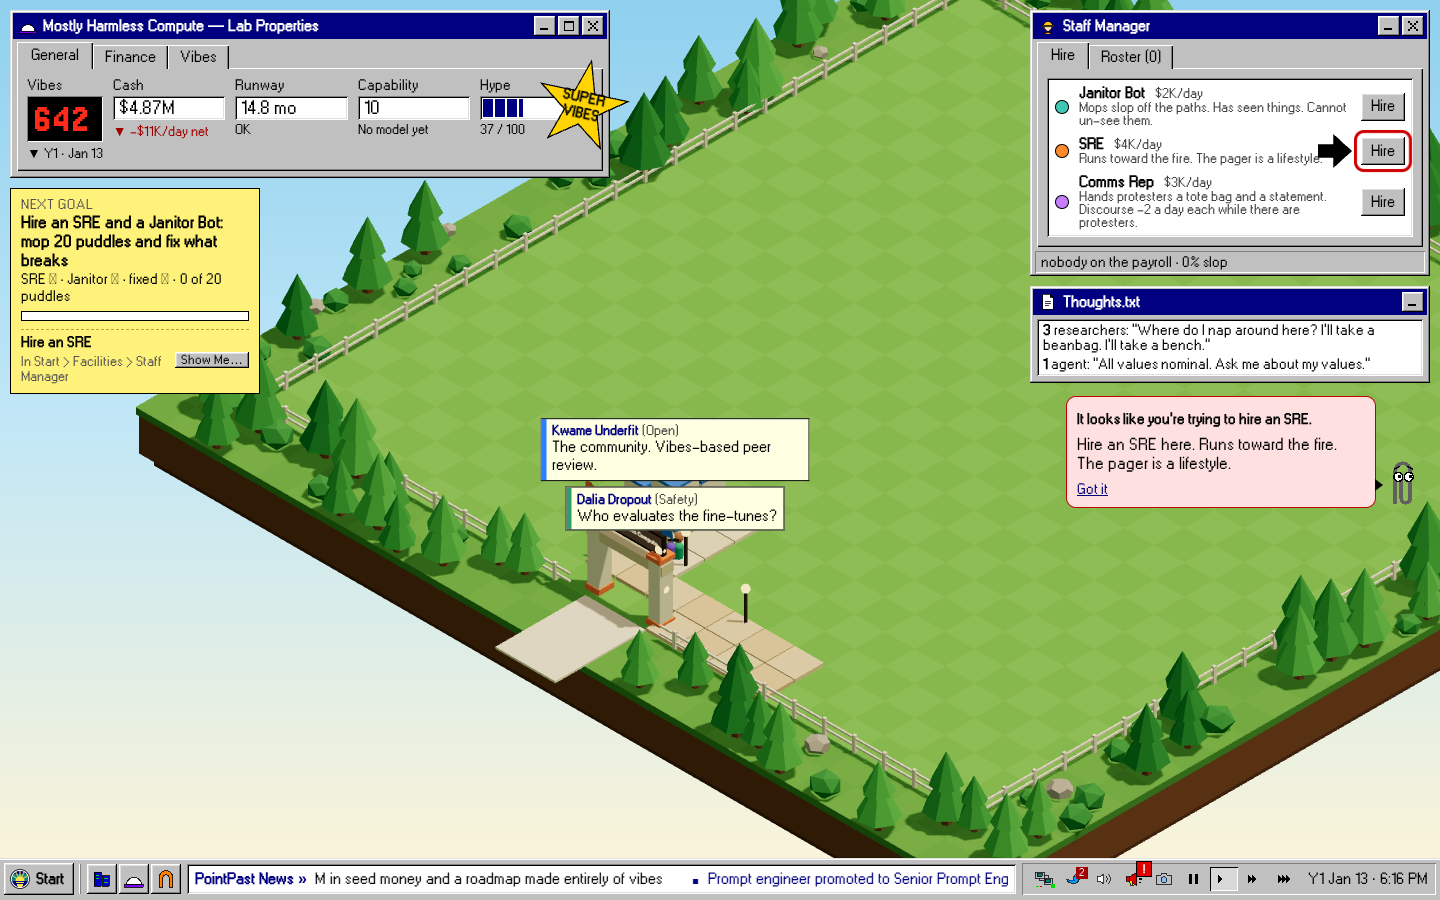
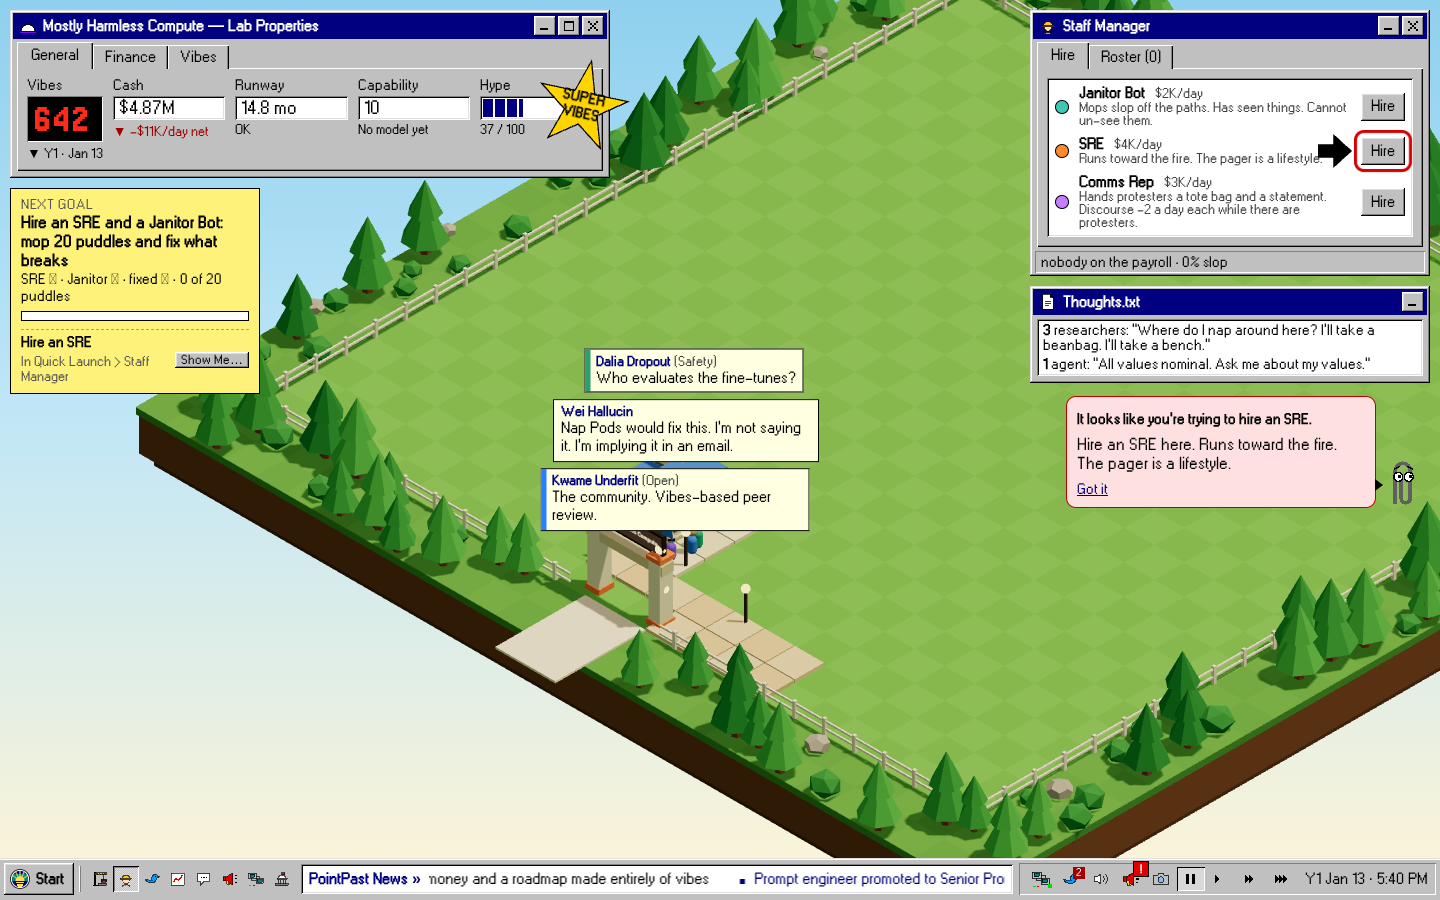
FLT-93: the arrow keeps off controls inside FLT-94's anchored windows; Hire re-shot through Quick Launch
FLT-94 marks whole windows as anchors (win:staff), so "anything with data-anchor" under the arrow meant everywhere in
the window was covered and the arrow fell back onto the Janitor Bot's Hire button. Covers now counts real controls only,
and the arrow is placed on every look, not once.

diff --git a/src/ui/hud/CoachLayer.tsx b/src/ui/hud/CoachLayer.tsx
@@ -64,9 +64,12 @@ interface Found {
   rect: Rect | null;
   panel: Rect | null;
   avoid: Rect[];
+  /** [Show me]'s arrow. Placed on every look, not once: a window's rows can land under it after the target is lit. */
+  arrow: Arrow | null;
 }
 
-const NONE: Found = { rect: null, panel: null, avoid: [] };
+const NONE: Found = { rect: null, panel: null, avoid: [], arrow: null };
+const sameArrow = (a: Arrow | null, b: Arrow | null) => (a === null || b === null ? a === b : a.point === b.point && sameRect(a.at, b.at));
 
 /** What a DOM change looks like to the coach (a `MutationRecord`, cut down so it is tested without a DOM). */
 export interface WindowChange {
@@ -112,8 +115,9 @@ function useSpotlight(target: string | null, guide = false): Found {
       const rect = measure();
       const panel = rect ? measurePanel(target, guide) : null;
       const avoid = measureAvoid();
-      if (sameRect(rect, last.rect) && sameRect(panel, last.panel) && sameRects(avoid, last.avoid)) return;
-      last = { rect, panel, avoid };
+      const arrow = guide && rect ? arrowFor(rect) : null;
+      if (sameRect(rect, last.rect) && sameRect(panel, last.panel) && sameRects(avoid, last.avoid) && sameArrow(arrow, last.arrow)) return;
+      last = { rect, panel, avoid, arrow };
       // A window just opened: move the balloon in this frame, not the next one.
       if (now) flushSync(() => setFound(last));
       else setFound(last);
@@ -230,10 +234,9 @@ export function CoachLayer({ vm, actions }: { vm: HudVM; actions: HudActions }) 
   const { Coach } = useSkin().slots;
   const coach = coachWaits(vm) ? null : vm.coach;
   const guide = coach?.guide === true;
-  const { rect, panel, avoid } = useSpotlight(coach ? (guide ? coach.target : spotlightTarget(vm)) : null, guide);
+  const { rect, panel, avoid, arrow } = useSpotlight(coach ? (guide ? coach.target : spotlightTarget(vm)) : null, guide);
   useGuideEnds(guide ? coach!.target : null, actions.endShowMe);
   if (!coach) return null;
-  const arrow = guide && rect ? arrowFor(rect) : null;
   return (
     <>
       {rect && <Spotlight rect={rect} dim={coach.dim === true} arrow={arrow} />}

diff --git a/src/ui/hud/showMe.ts b/src/ui/hud/showMe.ts
@@ -118,7 +118,12 @@ export function arrowPlace(hole: Rect, size: number, view: { w: number; h: numbe
   return { point, at: at[point] };
 }
 
-/** The page's answer for `covers`: a button, link or anchor under the arrow that is not the lit thing itself. */
+/**
+ * The page's answer for `covers`: a control under the arrow (a button, link, field, tab or menu item) that is not the lit thing
+ * itself. Not any `data-anchor`: a whole window is one (`win:staff`), and inside it everywhere would look covered.
+ */
+const CONTROL = "button, a, input, select, textarea, [role=button], [role=tab], [role=menuitem]";
+
 export function domCovers(hole: Rect): (at: Rect) => boolean {
   return (at) => {
     if (typeof document === "undefined") return false;
@@ -128,7 +133,7 @@ export function domCovers(hole: Rect): (at: Rect) => boolean {
       [at.x + at.w - 4, at.y + at.h - 4],
     ] as const;
     return probes.some(([x, y]) => {
-      const hit = document.elementFromPoint(x, y)?.closest("button, a, input, select, [data-anchor]");
+      const hit = document.elementFromPoint(x, y)?.closest(CONTROL);
       if (!hit) return false;
       const b = hit.getBoundingClientRect();
       const mx = b.left + b.width / 2;

diff --git a/docs/img/flt-93/report.md b/docs/img/flt-93/report.md
@@ -1,12 +1,7 @@
 
-> **⚠ 1 blank or failed output(s), do not use these as evidence:**
-> - flt93-card.png: blank composite: panel 3 is 26% one colour, 14 colours
-
-| Scene | Before (`main` @ d17e9a7) | After (`flt-93-onboarding` @ 561efab+) |
+| Scene | Before (`main` @ d17e9a7) | After (`flt-93-onboarding` @ bb2dd75+) |
 |---|---|---|
-| **flt93-card**<br>⚠ compare: blank composite: panel 3 is 26% one colour, 14 colours | ![flt93-card](https://github.com/jem-computer/frontier-lab-tycoon/blob/flt-93-onboarding/docs/img/flt-93/before/flt93-card.png?raw=true) | ![flt93-card](https://github.com/jem-computer/frontier-lab-tycoon/blob/flt-93-onboarding/docs/img/flt-93/after/flt93-card.png?raw=true) |
-| **flt93-card-phone**<br>35.9% px differ | ![flt93-card-phone](https://github.com/jem-computer/frontier-lab-tycoon/blob/flt-93-onboarding/docs/img/flt-93/before/flt93-card-phone.png?raw=true) | ![flt93-card-phone](https://github.com/jem-computer/frontier-lab-tycoon/blob/flt-93-onboarding/docs/img/flt-93/after/flt93-card-phone.png?raw=true) |
-| **flt93-hire**<br>16.1% px differ | ![flt93-hire](https://github.com/jem-computer/frontier-lab-tycoon/blob/flt-93-onboarding/docs/img/flt-93/before/flt93-hire.png?raw=true) | ![flt93-hire](https://github.com/jem-computer/frontier-lab-tycoon/blob/flt-93-onboarding/docs/img/flt-93/after/flt93-hire.png?raw=true) |
-| **flt93-hire-phone**<br>40.4% px differ | ![flt93-hire-phone](https://github.com/jem-computer/frontier-lab-tycoon/blob/flt-93-onboarding/docs/img/flt-93/before/flt93-hire-phone.png?raw=true) | ![flt93-hire-phone](https://github.com/jem-computer/frontier-lab-tycoon/blob/flt-93-onboarding/docs/img/flt-93/after/flt93-hire-phone.png?raw=true) |
+| **flt93-hire**<br>14.5% px differ | ![flt93-hire](https://github.com/jem-computer/frontier-lab-tycoon/blob/flt-93-onboarding/docs/img/flt-93/before/flt93-hire.png?raw=true) | ![flt93-hire](https://github.com/jem-computer/frontier-lab-tycoon/blob/flt-93-onboarding/docs/img/flt-93/after/flt93-hire.png?raw=true) |
+| **flt93-hire-phone**<br>37.1% px differ | ![flt93-hire-phone](https://github.com/jem-computer/frontier-lab-tycoon/blob/flt-93-onboarding/docs/img/flt-93/before/flt93-hire-phone.png?raw=true) | ![flt93-hire-phone](https://github.com/jem-computer/frontier-lab-tycoon/blob/flt-93-onboarding/docs/img/flt-93/after/flt93-hire-phone.png?raw=true) |
 
-_pnpm shots: 4 scene(s) in 116.1s (8/8 captures ok, 1 PROBLEM(S))._
+_pnpm shots: 2 scene(s) in 58.5s (4/4 captures ok)._
